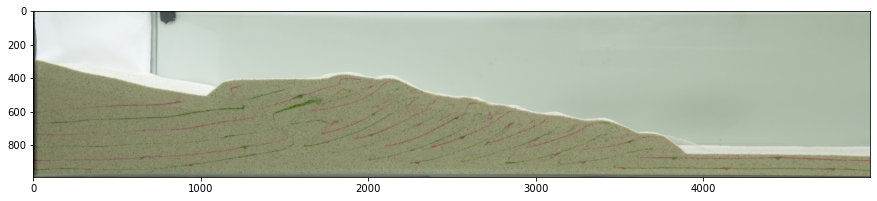
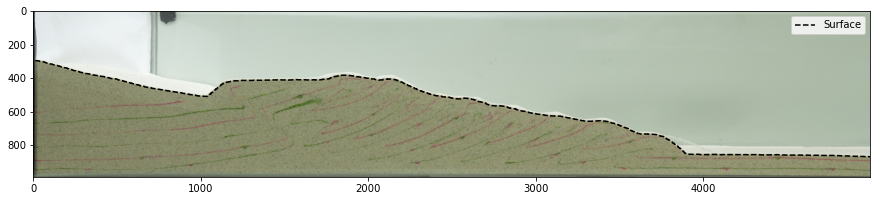
Add files via upload
added slope example

diff --git a/slope_calculator.md b/slope_calculator.md
@@ -1,0 +1,249 @@
+# Calculating wedge slopes
+- Take output from surface_generator
+- Extract the section of the wedge before the deformation front
+- All measurements are in pixels
+
+# Module imports
+
+
+```python
+import pims
+from utils import *
+```
+
+
+```python
+## pjt_slope15_prebuilt_062218, high fric baseline parameters
+images = pims.ImageSequence('data/*.jpg')
+xmin,xmax,ymin,ymax = 95, 5095,300, 1290 # pixel boundaries of image crop
+scale=63. #pixels/cm spatial
+im_w=images.frame_shape[1]
+im_h=images.frame_shape[0]
+surfs = 'pjt_slope15_prebuilt_062218_surfnocv_2023.h5'
+```
+
+# Examine wedge surfaces
+
+
+```python
+surf = pd.read_hdf(surfs,'wedgetop_00000')
+plt.figure(figsize=(15,5))
+plt.imshow(images[0][ymin:ymax,xmin:xmax])
+plt.plot(surf.x-xmin,-surf.y+im_h-ymin,'k--')
+plt.legend(['Surface'])
+```
+
+
+
+
+    <matplotlib.legend.Legend at 0x7f6f8e7d3d00>
+
+
+
+
+    
+![png](output_5_1.png)
+    
+
+
+# Calculate deformation front position
+- Use image processing tools to identify curvature in the surface of each wedge
+
+
+```python
+def deformation_front_mode(surfs,xmin,ymax,im_h,far_edge_count=1000,
+                           threshold=10,
+                           from_larger=True, vergence='s'):
+    '''     
+    Examine calcuated surfaces, and determine the surface expression of their
+        deformation fronts over the length of an experiment.
+         
+    Perform calcuation on surface with the retrowedge as the first area that 
+        exceeds the average flat topography elevation, and the deformation 
+        front defined as the last area that exceeds elevation outside of 
+        a specifed range of [sand_elev +/- surfvar].
+         
+    Calcuated value is only the physical expression of the deformation front, 
+        as actual deformation may jump forelandward for a short time 
+        before surface expression.         
+    '''
+    surfs_keys = list(h5py.File(surfs,'r'))
+    # determine maxlimum width of profile
+    len_x = []
+    for i, key in enumerate(surfs_keys):    
+        surf = pd.read_hdf(surfs,key)
+        if from_larger:
+            surf.x = surf.x - xmin
+            surf.y = surf.y - (im_h-ymax)
+        len_x.append(surf.x.max())
+    width = int(max(len_x))    
+    
+    # place surface in preallocated array
+    surface = np.zeros((len(surfs_keys),width))
+    for i, key in enumerate(surfs_keys):    
+        surf = pd.read_hdf(surfs,key)
+        surf = surf.y.dropna().reindex(surf.x, method='nearest').reset_index()
+        if from_larger:
+            surf.x = surf.x - xmin
+            surf.y = surf.y - (im_h-ymax)
+        surface[i,np.array(surf.x.values,dtype='int')-1] = surf.y.values
+        
+    # determine mean height of foreland material on far edge of surface array
+    far_edge_mean = surface[:,-far_edge_count:].mean()
+    # mask to find area that is within a given elevation of this mean
+    mask = (surface > far_edge_mean - threshold) & \
+                (surface < far_edge_mean + threshold)
+    # set boolean mask on edges to remove edge effects
+    mask[:,-far_edge_count:] = True
+    
+    # different modes for either style of model
+    if vergence == 's':
+        edge = nd.filters.sobel(mask.astype(float))
+        front = []
+        for i in range(edge.shape[0]):
+            if len(edge[i,:][edge[i,:] > 0]):
+                front_loc = np.nonzero(edge[i,:])[0][-1]
+                front.append([i,front_loc])
+            else:
+                front.append([i,np.nan])
+        front = pd.DataFrame(front,columns=('frame','x_df'))
+    if vergence == 'd':
+        mask[:,:far_edge_count] = True
+        edge = nd.filters.sobel(mask.astype(float))
+        front = []
+        for i in range(edge.shape[0]):
+            if len(edge[i,:][edge[i,:] > 0]):
+                retro_loc = np.nonzero(edge[i,:])[0][0]
+                front_loc = np.nonzero(edge[i,:])[0][-1]
+                front.append([i,retro_loc,front_loc])
+            else:
+                front.append([i,np.nan,np.nan])
+        front = pd.DataFrame(front,columns=('frame','x_rf','x_df'))
+    elif vergence != 's' and vergence != 'd':
+        raise ValueError('Choose either singly (s) or doubly (d) vergent mode') 
+    return front
+```
+
+
+```python
+front = deformation_front_mode(surfs,xmin,ymax,im_h)
+front
+```
+
+
+
+
+<div>
+<style scoped>
+    .dataframe tbody tr th:only-of-type {
+        vertical-align: middle;
+    }
+
+    .dataframe tbody tr th {
+        vertical-align: top;
+    }
+
+    .dataframe thead th {
+        text-align: right;
+    }
+</style>
+<table border="1" class="dataframe">
+  <thead>
+    <tr style="text-align: right;">
+      <th></th>
+      <th>frame</th>
+      <th>x_df</th>
+    </tr>
+  </thead>
+  <tbody>
+    <tr>
+      <th>0</th>
+      <td>0</td>
+      <td>3795</td>
+    </tr>
+    <tr>
+      <th>1</th>
+      <td>1</td>
+      <td>3795</td>
+    </tr>
+    <tr>
+      <th>2</th>
+      <td>2</td>
+      <td>3795</td>
+    </tr>
+    <tr>
+      <th>3</th>
+      <td>3</td>
+      <td>3792</td>
+    </tr>
+    <tr>
+      <th>4</th>
+      <td>4</td>
+      <td>3789</td>
+    </tr>
+    <tr>
+      <th>5</th>
+      <td>5</td>
+      <td>3786</td>
+    </tr>
+    <tr>
+      <th>6</th>
+      <td>6</td>
+      <td>3783</td>
+    </tr>
+    <tr>
+      <th>7</th>
+      <td>7</td>
+      <td>3780</td>
+    </tr>
+    <tr>
+      <th>8</th>
+      <td>8</td>
+      <td>3782</td>
+    </tr>
+    <tr>
+      <th>9</th>
+      <td>9</td>
+      <td>3782</td>
+    </tr>
+  </tbody>
+</table>
+</div>
+
+
+
+
+```python
+plt.figure(figsize=(15,5))
+plt.imshow(images[0][ymin:ymax,xmin:xmax])
+plt.plot(surf.x-xmin,-surf.y+im_h-ymin,'k--')
+plt.vlines(front.iloc[0].x_df+xmin,0,ymax-ymin)
+plt.ylim(ymax-ymin,0)
+plt.legend(['Surface','Deformation Front'])
+```
+
+
+
+
+    <matplotlib.legend.Legend at 0x7f6f8b70f310>
+
+
+
+
+    
+![png](output_9_1.png)
+    
+
+
+# Fit surface of wedge
+- Here we are demarcating the wedge as any material between the backstop (i.e., x=0) and the deformation front.
+- The defintition of the active wedge is changable, and others may define the wedge as the material between the first interruption in topography (~1000 pixels across the image) and the deformation front.
+
+
+```python
+slopes = slope_deffront(surfs,front,plotting=True)
+```
+
+![alt text](fit_surf_wedgetop_00000.png)
+
+- Here we see that the average slope of the wedge is roughly 5.5 degrees from horizontal.
